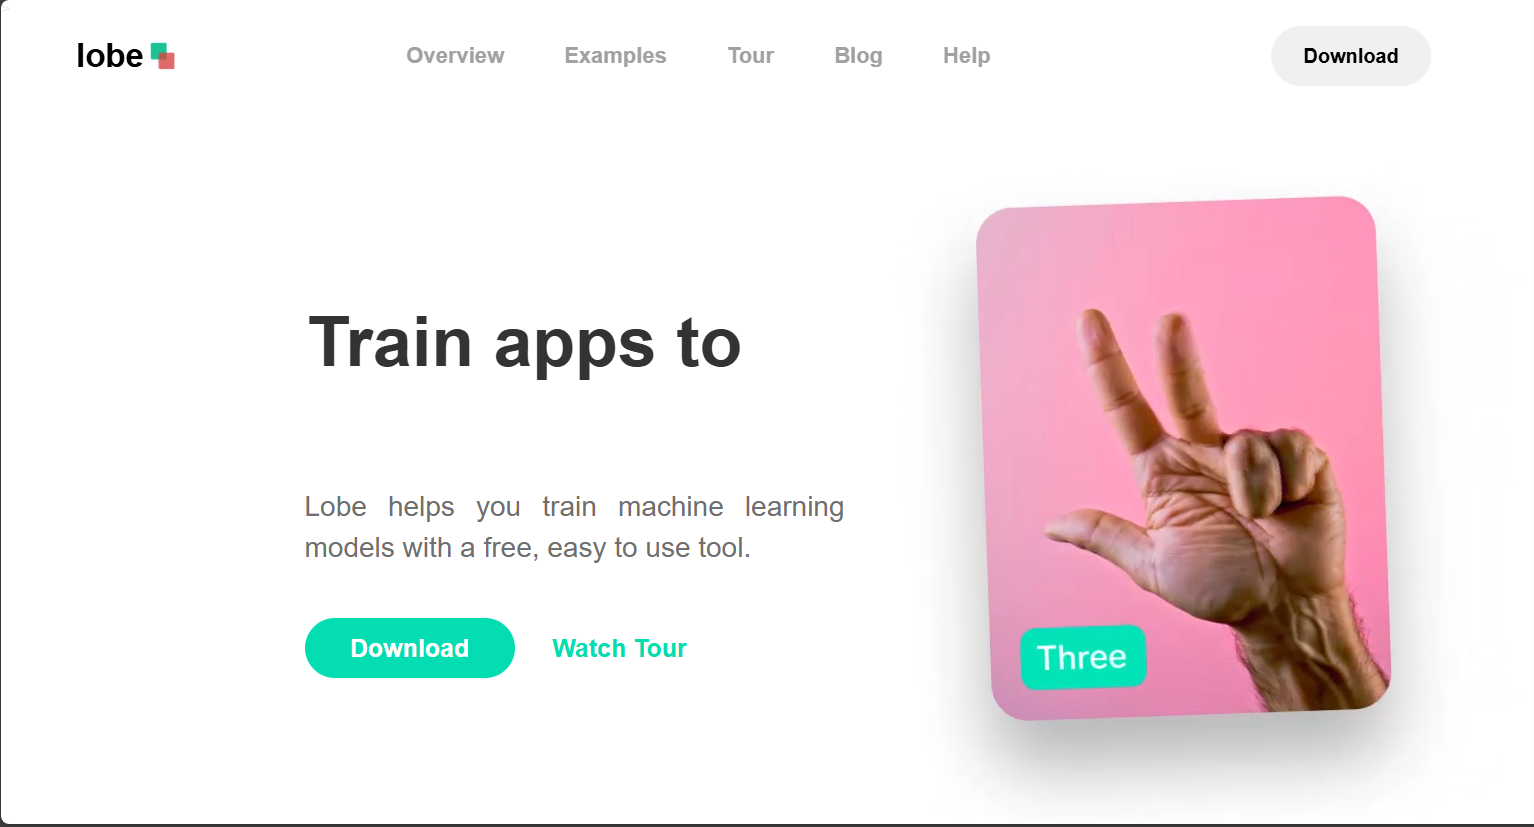
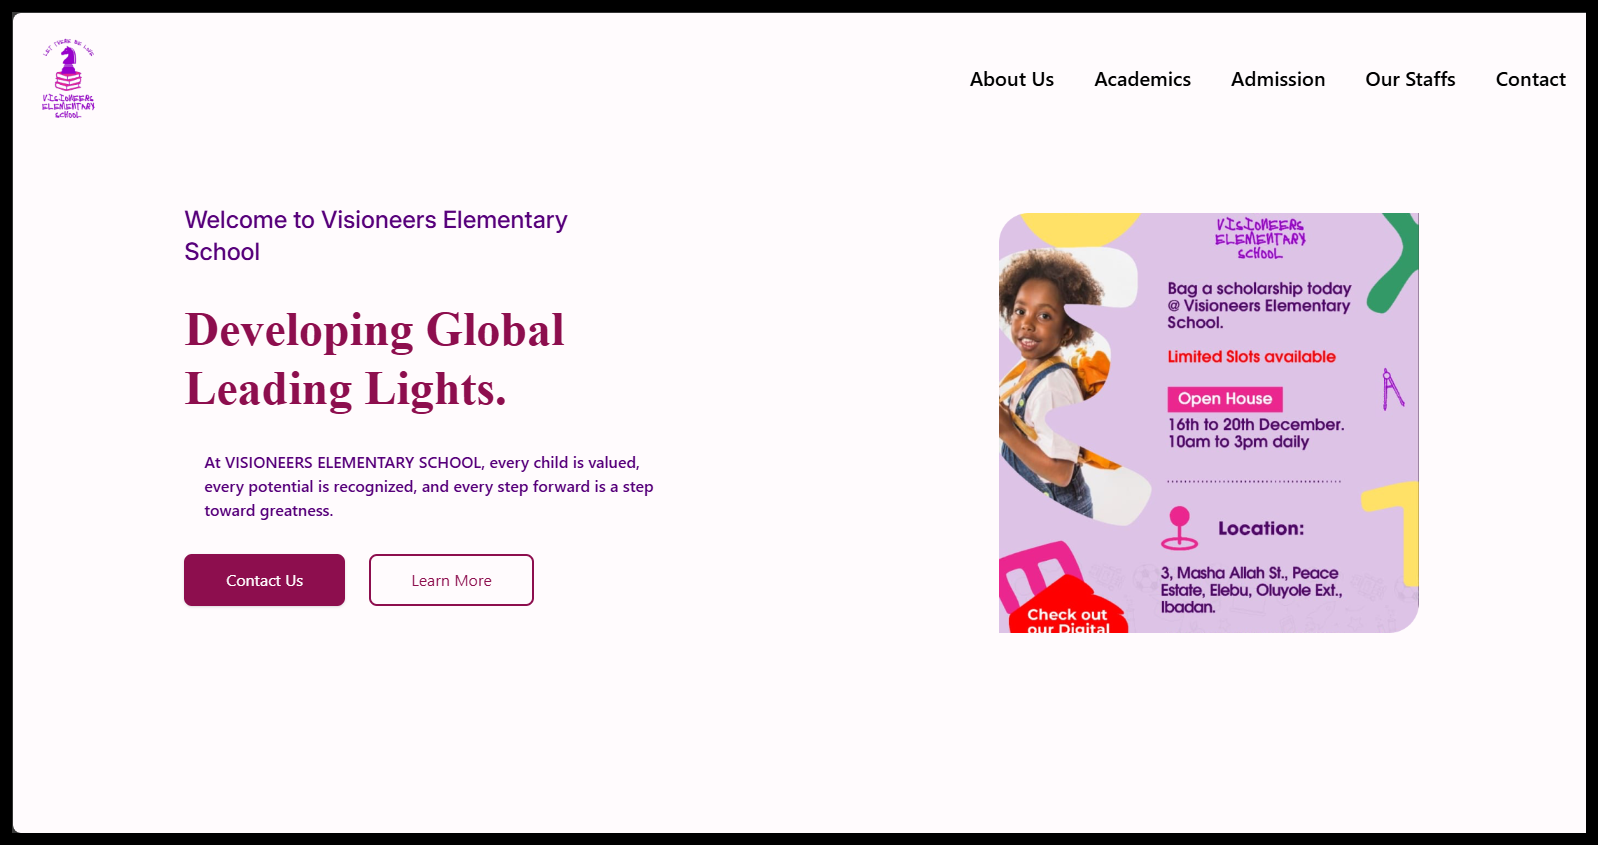
Initial commit

diff --git a/src/utility/index.ts b/src/utility/index.ts
@@ -13,42 +13,42 @@ import mock10 from '../assets/images/mock10.png';
 export const projects = [
   {
     id: uuidv4(),
-    name: 'E-BOOK Library',
+    name: "E-BOOK Library",
     image: mock10,
     description:
-      'Developed E-BOOK Library with vast book collection, engaging animations, and smooth user experience using Open Library API, Swiper, and TailwindCSS.',
-    url: 'https://zicoly-e-book-website.netlify.app',
-    techStack: ['Open Library API', 'Swiper', 'TailwindCSS', 'HTML5', 'CSS3'],
-    sourceUrl: 'https://github.com/zicoly/E-BOOK-Library',
+      "Developed E-BOOK Library with vast book collection, engaging animations, and smooth user experience using Open Library API, Swiper, and TailwindCSS.",
+    url: "https://zicoly-e-book-website.netlify.app",
+    techStack: ["Open Library API", "Swiper", "TailwindCSS", "HTML5", "CSS3"],
+    sourceUrl: "https://github.com/zicoly/E-BOOK-Library",
   },
   {
     id: uuidv4(),
-    name: 'Health Guardian',
+    name: "Health Guardian",
     image: mock09,
     description:
-      'Designed, developed, and implemented a robust hospital management software with scroll reveal animation for a hackathon project with [ The4Coders ], streamlining patient care and administrative tasks.',
-    url: 'https://hg-gamma.vercel.app',
-    techStack: ['Node.js', 'TailwindCSS', 'Next.js', 'TypeScript', 'OpenAI'],
+      "Designed, developed, and implemented a robust hospital management software with scroll reveal animation for a hackathon project with [ The4Coders ], streamlining patient care and administrative tasks.",
+    url: "https://hg-gamma.vercel.app",
+    techStack: ["Node.js", "TailwindCSS", "Next.js", "TypeScript", "OpenAI"],
   },
   {
     id: uuidv4(),
-    name: 'Ecommerce Store',
+    name: "Ecommerce Store",
     image: mock08,
     description:
-      'Explore FauxStore: Your playground for simulated online shopping! Experiment with e-commerce features in this repository. Build, test, and have fun!',
-    url: 'https://zicoly-ecommerce-site.vercel.app',
-    techStack: ['React','TailwindCSS', 'TypeScript'],
-    sourceUrl: 'https://github.com/zicoly/Ecommerce-site',
+      "Explore FauxStore: Your playground for simulated online shopping! Experiment with e-commerce features in this repository. Build, test, and have fun!",
+    url: "https://zicoly-ecommerce-site.vercel.app",
+    techStack: ["React", "TailwindCSS", "TypeScript"],
+    sourceUrl: "https://github.com/zicoly/Ecommerce-site",
   },
   {
     id: uuidv4(),
-    name: 'TO-DO List Application',
+    name: "TO-DO List Application",
     image: mock07,
     description:
-      'Simple To-Do List Application using HTML, CSS, and JavaScript. Features: add todos, mark completion, filter tasks, and remove todos.',
-    url: 'https://zicoly.github.io/To-do-List-Application/',
-    techStack: ['HTML', 'CSS', 'JavaScript'],
-    sourceUrl: 'https://github.com/zicoly/To-do-List-Application',
+      "Simple To-Do List Application using HTML, CSS, and JavaScript. Features: add todos, mark completion, filter tasks, and remove todos.",
+    url: "https://zicoly.github.io/To-do-List-Application/",
+    techStack: ["HTML", "CSS", "JavaScript"],
+    sourceUrl: "https://github.com/zicoly/To-do-List-Application",
   },
   // {
   //   id: uuidv4(),
@@ -61,42 +61,42 @@ export const projects = [
   // },
   {
     id: uuidv4(),
-    name: 'Chiquitas-IMS',
+    name: "Chiquitas-IMS",
     image: mock05,
     description:
       "Collaborated with my team, [The4Coders], to develop an Inventory Management Software for a client's hair business.",
-    message: 'Details available upon request, as this is a client project.',
-    techStack: ['React', 'Node.js', 'TailwindCSS', 'TypeScript', 'Vite'],
-  },  
+    message: "Details available upon request, as this is a client project.",
+    techStack: ["React", "Node.js", "TailwindCSS", "TypeScript", "Vite"],
+  },
   {
     id: uuidv4(),
-    name: 'Podia',
+    name: "QR-PAY",
     image: mock04,
     description:
-      'Recreating the Podia website to enhance web development skills using HTML, CSS, and JavaScript, focusing on designing.',
-    url: 'https://zicoly.github.io/Podia/',
-    techStack: ['HTML', 'CSS', 'JavaScript'],
-    sourceUrl: 'https://github.com/zicoly/Podia',
+      "A dynamic payment system leveraging QR code technology to simplify transactions. Features include account detail extraction from QR codes, a payment modal, and a streamlined user interface for efficient navigation.",
+    url: "https://qr-pay-zeta.vercel.app/home",
+    techStack: ["React", "Tailwind CSS", "Node.js", "MongoDB"],
+    sourceUrl: "https://github.com/zicoly/QR-PAY",
   },
   {
     id: uuidv4(),
-    name: 'Lobe Website',
+    name: "Visioneers Elementary School",
     image: mock03,
     description:
-      "Recreated the Lobe website using HTML, CSS, and JavaScript to practice web development skills. This project showcases layout, styling, and responsiveness.",
-    url: 'https://zicoly.github.io/Lobe-Website',
-    techStack: ['HTML', 'CSS', 'JavaScript'],
-    sourceUrl: 'https://github.com/zicoly/Lobe-Website',
+      "A responsive and user-friendly website designed for Visioneers Elementary School, highlighting school programs, admissions, and contact details. Built to ensure smooth navigation and accessibility for diverse audiences.",
+    url: "https://visioneers-school.vercel.app/",
+    techStack: ["React", "CSS", "Vite"],
+    sourceUrl: "https://github.com/zicoly/visioneers-elementary-school",
   },
   {
     id: uuidv4(),
-    name: 'A Simple Guessing Game',
+    name: "A Simple Guessing Game",
     image: mock02,
     description:
-      'Developed an engaging Guessing Game with limited attempts to find the correct number. Enjoy the challenge and test your skills!',
-    url: 'https://zicoly.github.io/The-Guessing-Game/',
-    techStack: ['HTML', 'CSS', 'JavaScript'],
-    sourceUrl: 'https://github.com/zicoly/The-Guessing-Game',
+      "Developed an engaging Guessing Game with limited attempts to find the correct number. Enjoy the challenge and test your skills!",
+    url: "https://zicoly.github.io/The-Guessing-Game/",
+    techStack: ["HTML", "CSS", "JavaScript"],
+    sourceUrl: "https://github.com/zicoly/The-Guessing-Game",
   },
   // {
   //   id: uuidv4(),
